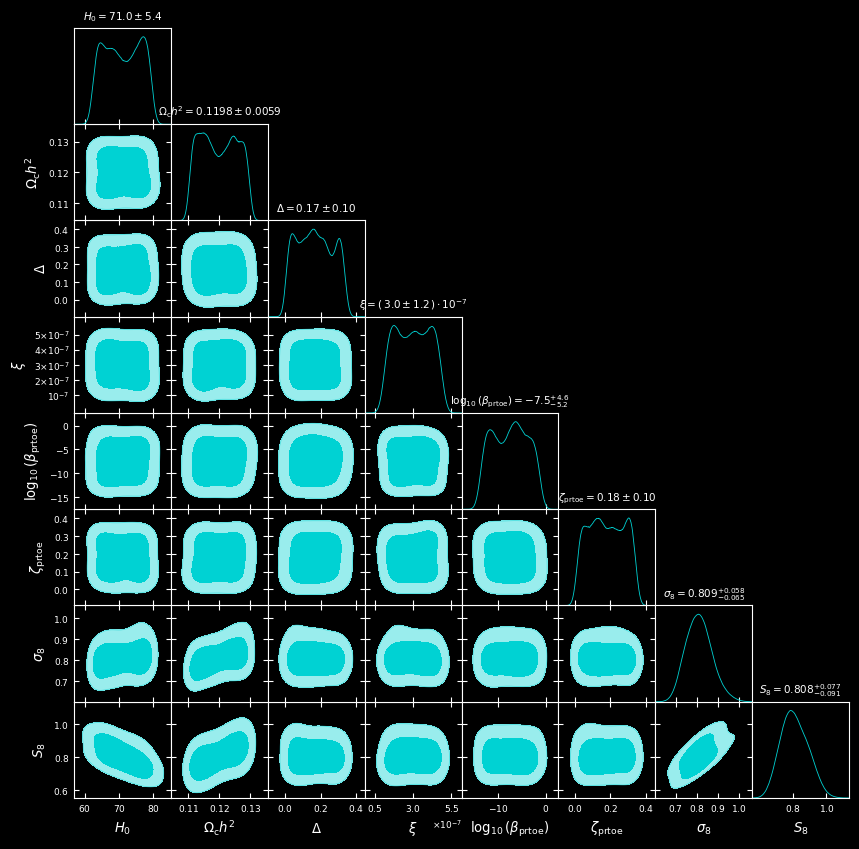
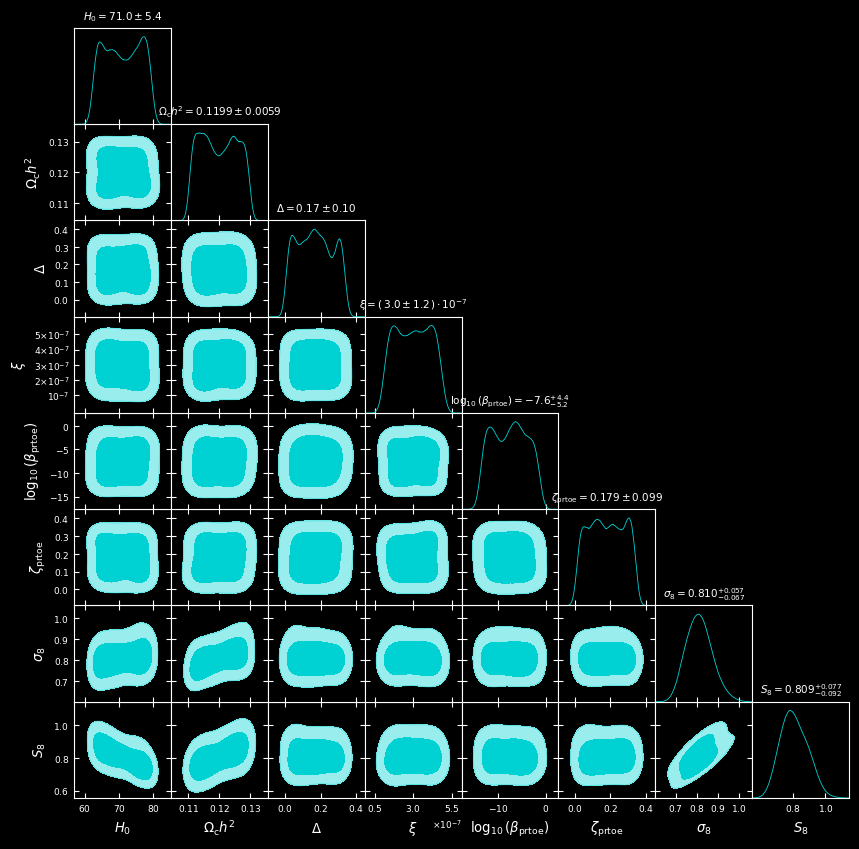
Upgrade README with advanced academic & diagnostic capabilities for ClassEngine-CosmicDashboard

diff --git a/README.md b/README.md
@@ -44,11 +44,27 @@ docker run --rm -p 8000:8000 -v $(pwd)/chains:/app/chains cosmic-dashboard
 ```
 Then manually open `dashboard/index.html` in any browser.
 
-### Dashboard Capabilities:
-   * **Upload Configurations:** Drag-and-drop a Cobaya `.yaml` file.
-   * **Upload Custom Code:** Upload modified C files (like `background.c`) and rebuild CLASS in real-time.
-   * **Nested Sampler Controller:** Launch/abort MPI runs with 12 parallel ranks in WSL and track dead points and convergence.
-   * **Bayesian Comparison:** Automatically calculate $\Delta\ln\mathcal{Z}$ and map results on the Jeffreys scale.
+### Advanced Academic & Diagnostic Features:
+
+* **Interactive Modified Gravity Playground & Background Solver Emulator:**
+  * Adjust cosmological parameters ($H_0$, $\omega_{cdm}$, $\omega_b$) and modified gravity modifiers ($\xi_{\text{prtoe}}$, $\delta_{\text{prtoe}}$, $\zeta_{\text{prtoe}}$, $\beta_{\text{prtoe}}$) via live sliders.
+  * Emulate and instantly plot background Hubble expansion ratios $H(z)/H_{\Lambda\text{CDM}}(z)$, dark energy equation of state $w(z)$, and modified gravity coupling strength $\mu(z)$ with real-time DHOST stability boundary checks.
+* **Live Sampler Health & MCMC Convergence Diagnostics:**
+  * Ditch terminal log scrolling: monitor dead point counts, evaluation speeds, and live efficiency updates in a graphical GUI.
+  * Real-time trace plots, autocorrelation time charts, and Gelman-Rubin ($R-1$) PSRF (Potential Scale Reduction Factor) metrics to verify parameter mixing *during* execution.
+* **One-Click Run-vs-Run Comparator:**
+  * Load and compare two run outputs side-by-side (e.g., standard $\Lambda\text{CDM}$ vs. your modified gravity model).
+  * Automatically calculates evidence difference ($\Delta\log Z$), best-fit $\chi^2$ differences, and statistical parameter shifts in significance levels ($N_\sigma = |\Delta\mu| / \sqrt{\sigma_A^2 + \sigma_B^2}$).
+* **Individual Per-Data-Point Residuals Explorer:**
+  * Breaks down residuals, uncertainties, and individual $\chi^2$ contributions per individual bin/data-point: per multipole for Planck CMB, per bin for BAO (6dFGS, MGS, BOSS, eBOSS), and per supernova for Pantheon+.
+* **Unified Scientific Provenance & Accountability Ledger:**
+  * Generates a scientific metadata footprint of compilation flags, machine CPU/RAM specifications, Conda environment specifications, CLASS/Cobaya engine versions, active configuration checksums (SHA-256), and Git repository commit hashes for absolute paper reproducibility.
+* **Jupyter Notebook Boilerplate Generator:**
+  * Instantly export an interactive Python Jupyter notebook (`.ipynb`) pre-configured with the exact C-engine settings and cosmology parameters of your active run.
+* **Diagnostic Run Autopsy Timeline:**
+  * Scans active run logs for compilation errors, Cholesky decomposition issues, unphysical proposal widths, or stability wedge violations and maps them on a chronological event timeline.
+* **Auto-Rebuilder & Parallel Solver Control:**
+  * Easily toggle active CPU cores and run nested PolyChord samplers via multi-threaded MPI natively in the background, with automatic CLASS C-engine rebuilding.
 
 ---
 